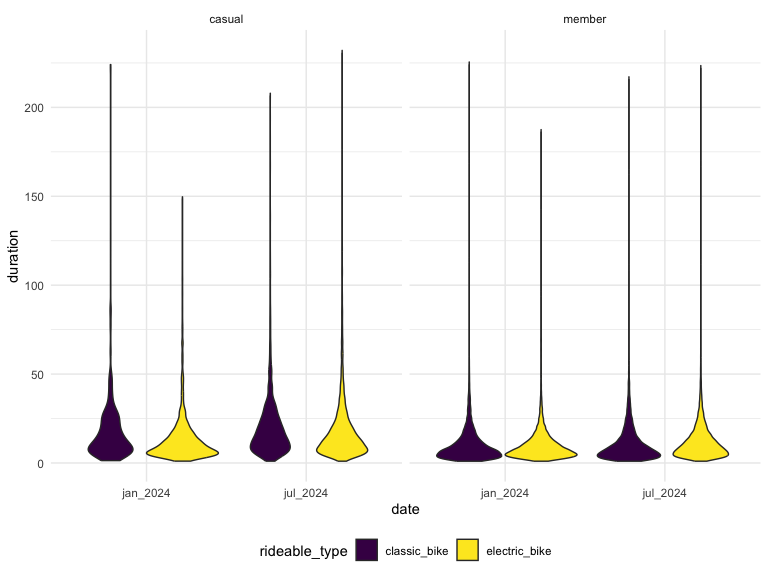
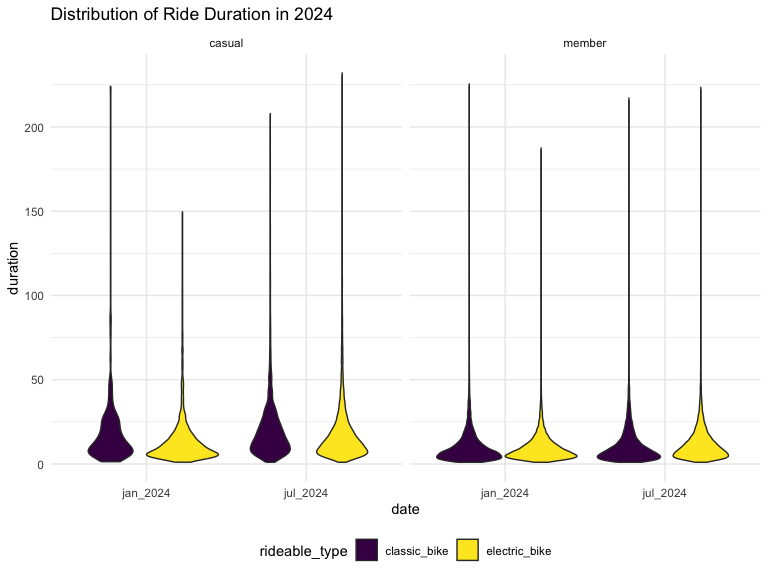
Finish all parts

diff --git a/p8105_hw3_cy2751.md b/p8105_hw3_cy2751.md
@@ -271,7 +271,7 @@ joint_acc_df %>%
   geom_line(alpha = 0.2)+
   geom_smooth(aes(group = sex),se = F)+
   facet_grid(. ~ education)+
-  labs(title = "24-hour Activity Time Courses Plot")
+  labs(title = "24-hour Activity Time Courses Plot among different education levels")
 ```
 
     ## `geom_smooth()` using method = 'gam' and formula = 'y ~ s(x, bs = "cs")'
@@ -373,12 +373,28 @@ citi_all <- bind_rows(citi_jan_2020,citi_jan_2024,citi_jul_2020,
                       citi_jul_2024)
 ```
 
-\*\*\* describe the resulting dataset \*\*\*
+This `citi_all` dataset contains 99485 rows and 8 columns and it
+includes part of information about rides taken on the NYC Citi Bike
+system from January 2020, January 2024, July 2020 and July 2024, for
+each month, the information is saved in one file, and we combined all
+these four datasets together and resulting in this current large
+dataset.  
+This resulting dataset includes variables `id` which is the rider id,
+`rideable_type` showing if the bike is classic or electronic, `weekdays`
+showing on which weekday does this ride happened, `duration` shows the
+time this ride last in minutes,`start_station` and `end_station`, and
+`member_causal` showing if this rider is a member or not. There is also
+a `date` variable which is created when combining the dataset, it is
+used to identify the month and year this ride belongs to.  
+We clean the dataset by factoring `rideable_type`,`weekdays` and
+`member_casual` so that we can identify each categories in these
+variables clearly when analyzing. We also create a new variable `date`
+to identify the month and year this ride belongs to.
 
 ``` r
 citi_all %>% 
   janitor::tabyl(date,member_casual) %>% 
-  knitr::kable()
+  knitr::kable(caption = "Number of Rides of Casual and Members")
 ```
 
 | date     | casual | member |
@@ -388,13 +404,28 @@ citi_all %>%
 | jul_2020 |   5637 |  15411 |
 | jul_2024 |  10894 |  36262 |
 
+Number of Rides of Casual and Members
+
+From this 2 by 2 table we can see that large amount of customers using
+the Citi Bike is members rather than causal riders. And in January 2020,
+which is the earliest data we can get, relatively less causal riders are
+willing to use Citi bike. While in July 2024, the newest data, larger
+proportion of causal riders are using Citi bike. It seems more people
+are using Citi bike not for commuting purpose but traveling or
+discovering NYC purpose nowadays.  
+By comparing data from 2020 and 2024, we can see more and more people
+started using Citi bikes and the number of members is growing large.  
+By comparing data from January and July, it is not surprising to see
+people are more likely to ride bikes in July, which has nicer weather
+and sun for riding a bike.
+
 ``` r
 citi_jul_2024 %>% 
   group_by(start_station_name) %>% 
   summarise(frcy = n()) %>% 
   arrange(desc(frcy)) %>% 
   head(5) %>% 
-  knitr::kable()
+  knitr::kable(caption = "Top 5 Popular Starting Stations for July 2024")
 ```
 
 | start_station_name       | frcy |
@@ -404,6 +435,8 @@ citi_jul_2024 %>%
 | W 21 St & 6 Ave          |  152 |
 | West St & Chambers St    |  150 |
 | W 31 St & 7 Ave          |  146 |
+
+Top 5 Popular Starting Stations for July 2024
 
 ``` r
 citi_all %>% separate(date,into = c("month","year"),sep = "_")%>% 
@@ -415,24 +448,58 @@ citi_all %>% separate(date,into = c("month","year"),sep = "_")%>%
   ggplot(aes(x = weekdays, y = median_duration,group = month,color = month))+
   geom_point()+ geom_line()+
   facet_grid(. ~ year )+
-  theme(axis.text.x = element_text(size = 8, angle = 45, hjust = 1),
-        legend.position = "bottom")
+  theme(axis.text.x = element_text(size = 8, angle = 45, hjust = 1))+
+  labs(title = "Trend of Median Ride Duration among weekdays, month and year")
 ```
 
     ## `summarise()` has grouped output by 'year', 'month'. You can override using the
     ## `.groups` argument.
 
 <img src="p8105_hw3_cy2751_files/figure-gfm/unnamed-chunk-12-1.png" width="90%" />
-\*\*\* Comment \*\*\*
+By comparing median of riding duration among different days in a week,
+we can see that people have a higher riding duration using the Citi
+bikes on weekends, which may due to visitors and residents in NYC using
+Citi bike for hanging out or hiking all day long while less and stable
+demand from Monday to Friday, which is customers using Citi bikes for
+commuting purpose only. In 2020, the Citi bike duration on Saturday and
+Sunday is almost the same, while in 2024, the bike duration on Saturday
+is larger than that on Sunday.  
+
+When it comes to comparison between January and July, we can see people
+tend to use Citi bike much longer in July than January, because January
+is still pretty cold while July is warm and people feel much comfortable
+riding bikes.  
+
+Comparing data from 2020 and 2024, we can see the duration that people
+use Citi bike is shorter in 2024. This situation may due to the
+transportation in 2024 is much convenient than 2020, we can see now we
+have bike specific lane, which can help people get to their destination
+faster.
 
 ``` r
 citi_all %>% filter(date == "jan_2024" | date == "jul_2024") %>% 
   group_by(date,rideable_type,member_casual) %>% 
   ggplot(aes(x = date,y = duration,fill = rideable_type))+
   geom_violin()+
-  facet_grid(. ~ member_casual)
+  facet_grid(. ~ member_casual)+
+  labs(title = "Distribution of Ride Duration in 2024")
 ```
 
 <img src="p8105_hw3_cy2751_files/figure-gfm/unnamed-chunk-13-1.png" width="90%" />
+Most of the rider duration seems to concentrate between 0 min to 50
+mins, with relatively small amount of people ride for over an hour.  
 
-\*\*\* Comment \*\*\*
+Month: In 2024, more people in July tends to have longer riding
+duration, especially for electric-bikes and causal riders. Better
+weather condition makes people more willing to ride a bike during
+leisure time and relax. In January, the riding duration is shorter.  
+
+Membership status: Members seem more likely to ride for shorter and
+compact trip every time they use the Citi bike, it may due to they have
+a lower fee every time activating a Citi bike,leading to frequent use
+but shorter duration, while causal riders want to make full use of every
+rides. Also, causal riders have more variability in riding duration.  
+
+Bike type: Electric bike seems to be used for longer duration,
+especially for causal users in january(colder weather). We can see
+electronic bike is more popular when people have a longer trip.
